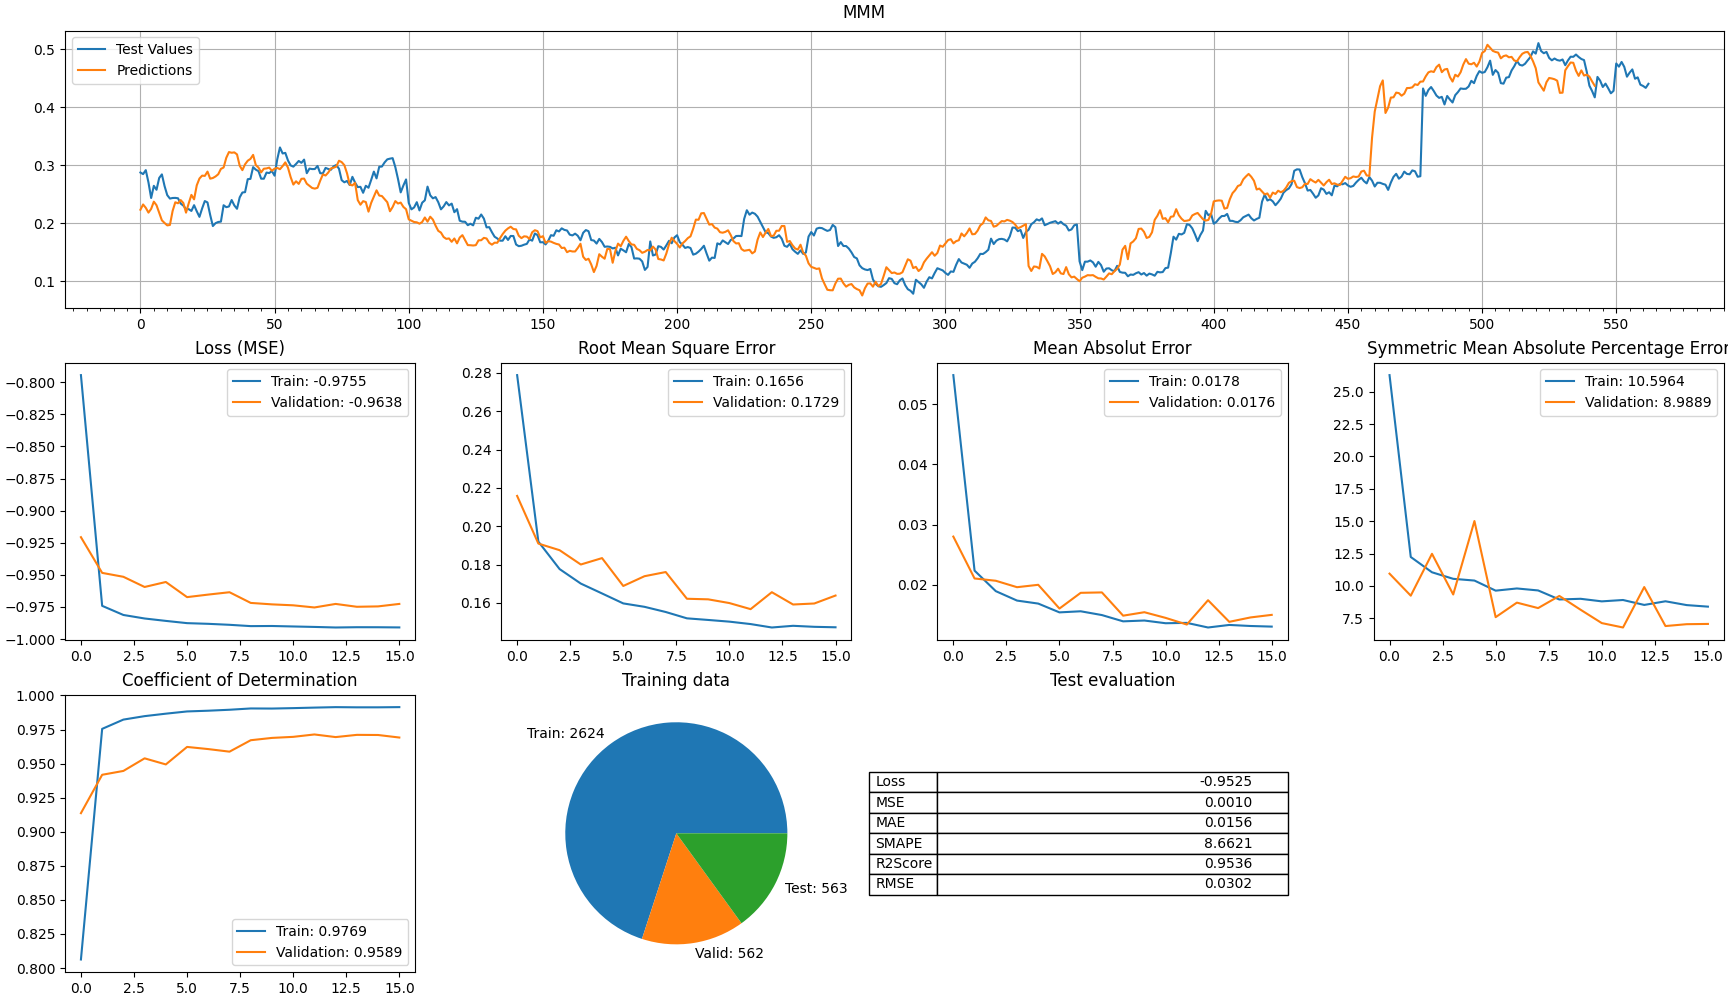
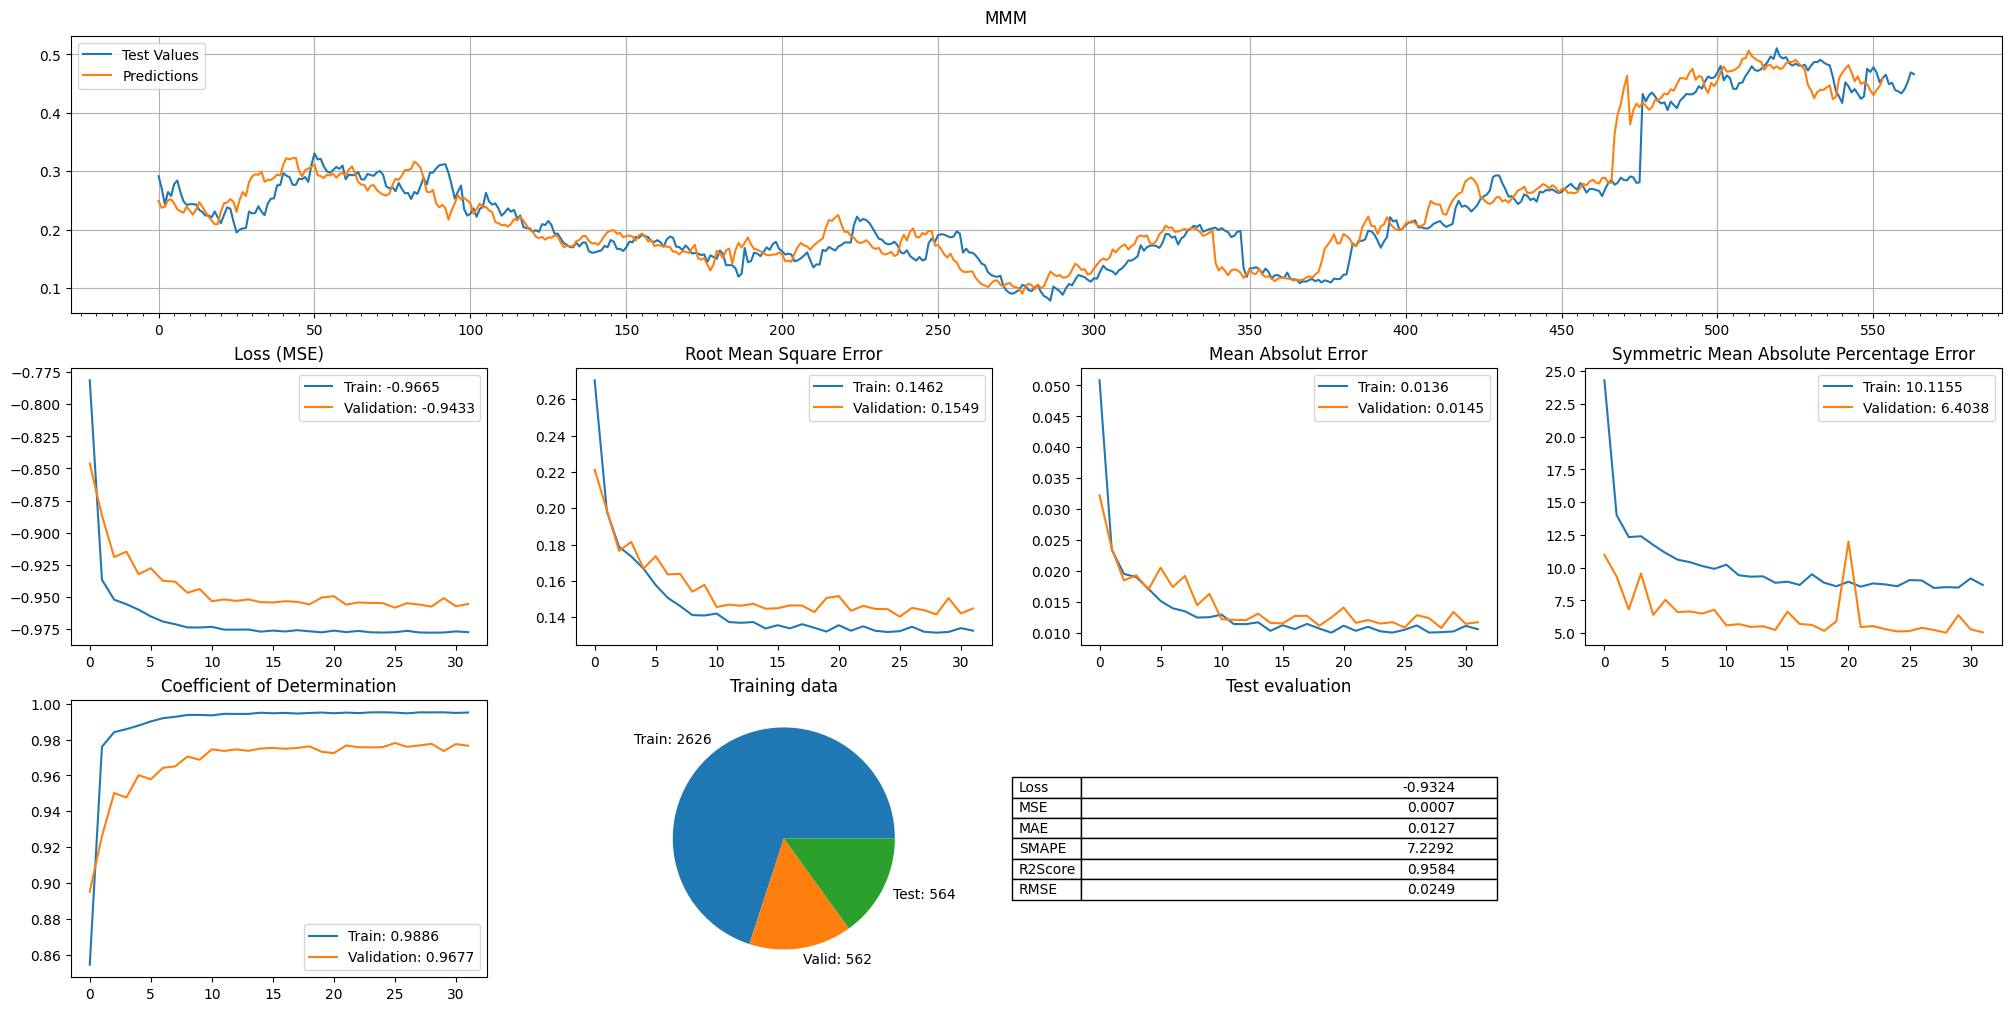
adjusted model

diff --git a/src/plot.py b/src/plot.py
@@ -46,10 +46,15 @@ class Plot:
         self.axs[0].text(prices.index[0], top - ((top - bottom)/2), 'Future', rotation=90, verticalalignment='center')
         self.axs[0].plot(prices['SMA_high'], color='red', label='SMA 200', linestyle="dotted", alpha=0.3)
         self.axs[0].plot(prices['SMA_low'], color='blue', label='SMA 50', linestyle="dotted", alpha=0.3)
+        self.axs[1].axvline(prices.index[0])
+        self.axs[1].plot(prices['RSI_val'], color='blue', label='RSI')
+        (bottom, top) = self.axs[1].get_ylim()
+        self.axs[1].text(prices.index[0], top - ((top - bottom)/2), 'Future', rotation=90, verticalalignment='center')
         self.axs[2].axvline(prices.index[0])
         self.axs[2].bar(prices.index, prices['Volume'], color='grey', label='Predicted Volume')
         (bottom, top) = self.axs[2].get_ylim()
         self.axs[2].text(prices.index[0], top - ((top - bottom)/2), 'Future', rotation=90, verticalalignment='center')
+
 
     def plot_max_price(self):
         prices = self.stock.get_price(self.range)

diff --git a/src/model.py b/src/model.py
@@ -99,7 +99,7 @@ class StockModel:
             'SMA_low', 'SMA_high',
             'EMA_low', 'EMA_high',
             'DEMA_val', 'ROCR_val',
-            'HURST_val'
+            'RSI_val', 'HURST_val'
             ]]
         
         self.features = len(self.dataset.columns)
